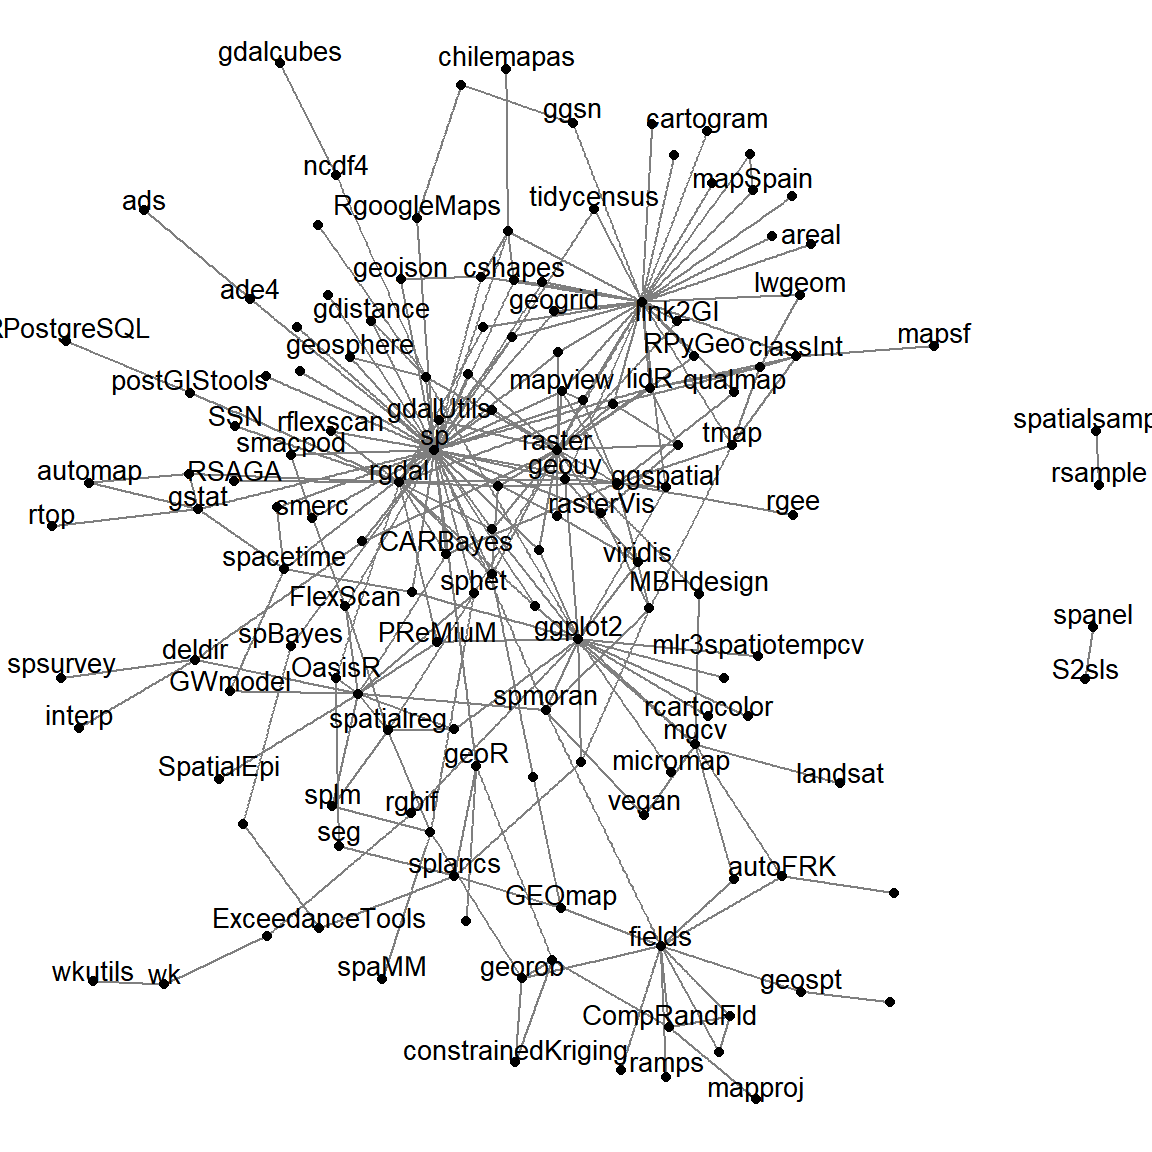
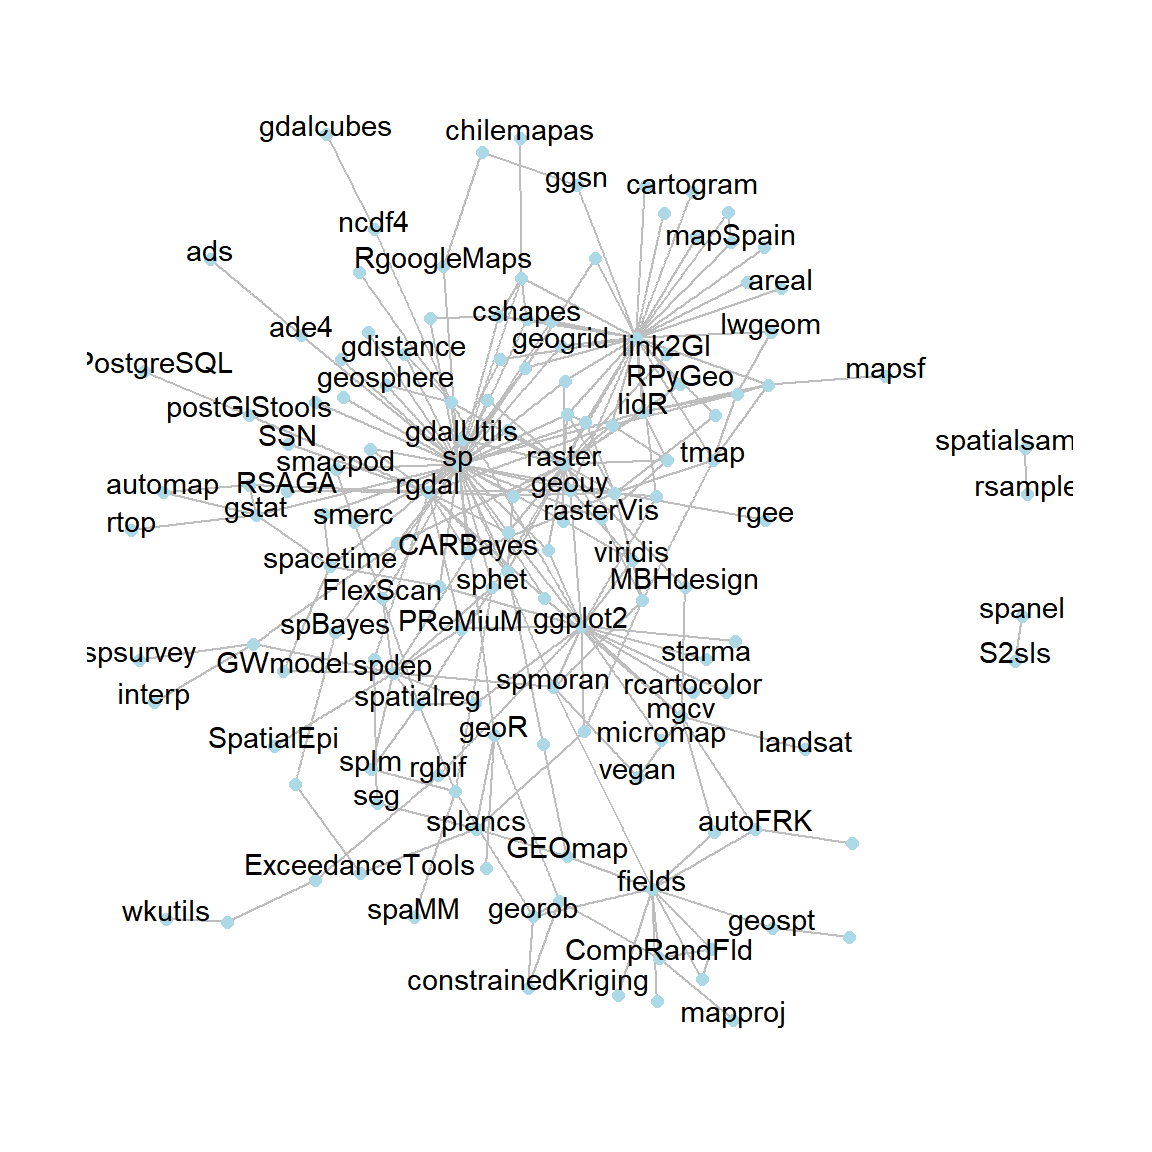
new post on the spatial packages on cran

diff --git a/content/post/2022-04-04-the-state-of-spatial-in-r/index.en.html b/content/post/2022-04-04-the-state-of-spatial-in-r/index.en.html
@@ -145,10 +145,10 @@ env_tbl %&gt;%
 
 sp_tbl %&gt;% 
   ggraph(layout = &#39;fr&#39;) + 
-  geom_edge_link(colour = &quot;grey50&quot;) + 
-  geom_node_point()+
-  geom_node_text(aes(label = name), colour = &quot;black&quot;, size = 3.5, parse = TRUE, repel = FALSE, check_overlap = TRUE, nudge_y = .2) +
-  theme_void()</code></pre>
+  geom_edge_link(colour = &quot;grey&quot;) + 
+  geom_node_point(colour=&quot;lightblue&quot;, size=2) + 
+  geom_node_text(aes(label=name), repel=FALSE, check_overlap = TRUE, nudge_y = .2) +  
+  theme_graph()</code></pre>
 <p><img src="{{< blogdown/postref >}}index.en_files/figure-html/unnamed-chunk-10-1.png" width="576" /></p>
 <pre class="r"><code>sp_tbl %&gt;% 
   ggraph(layout = &#39;linear&#39;,circular = TRUE) + 
